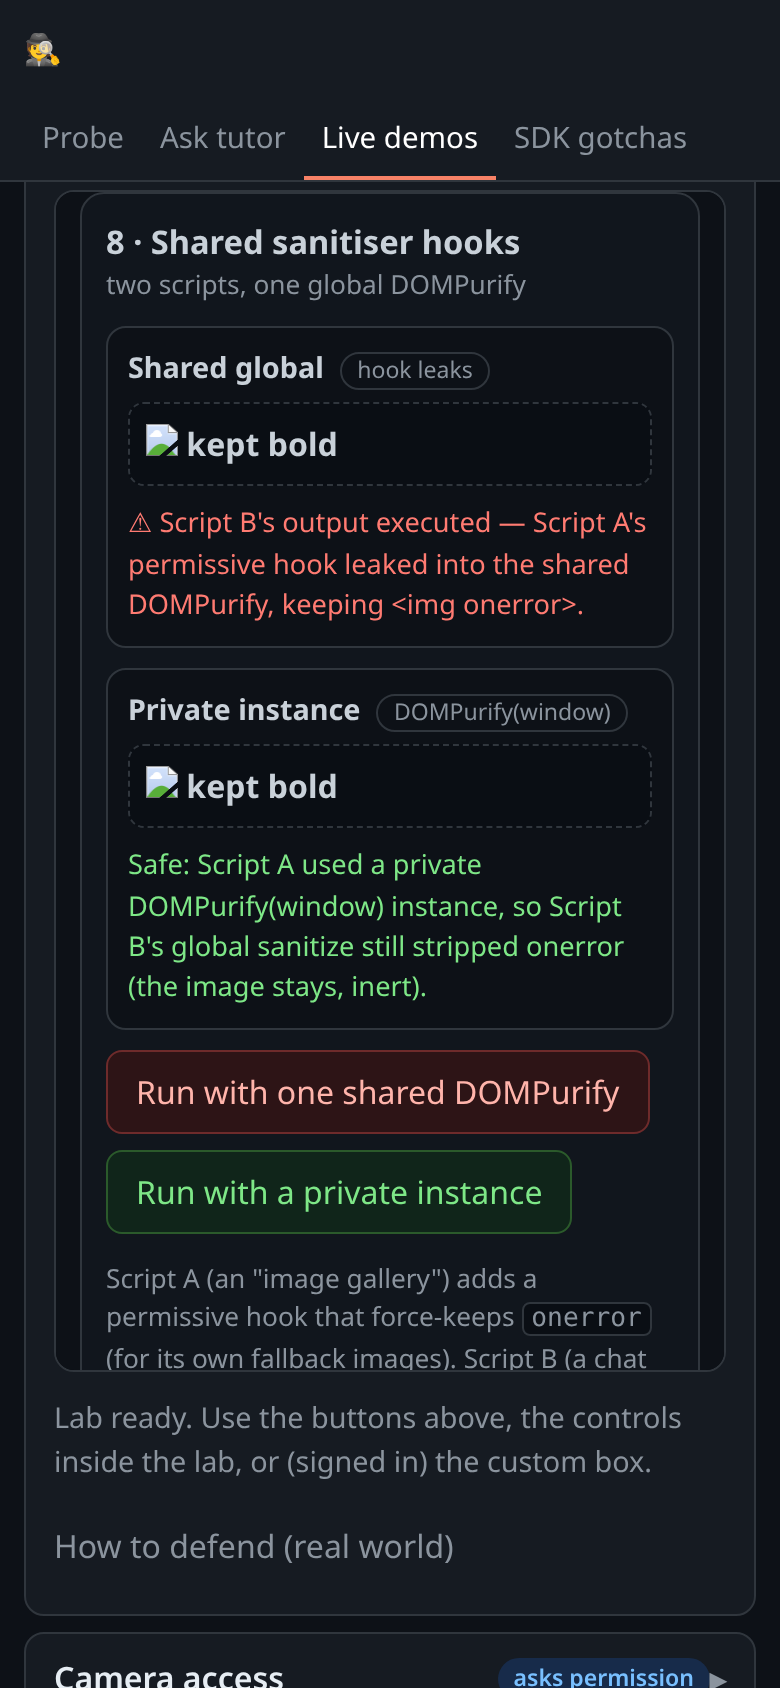
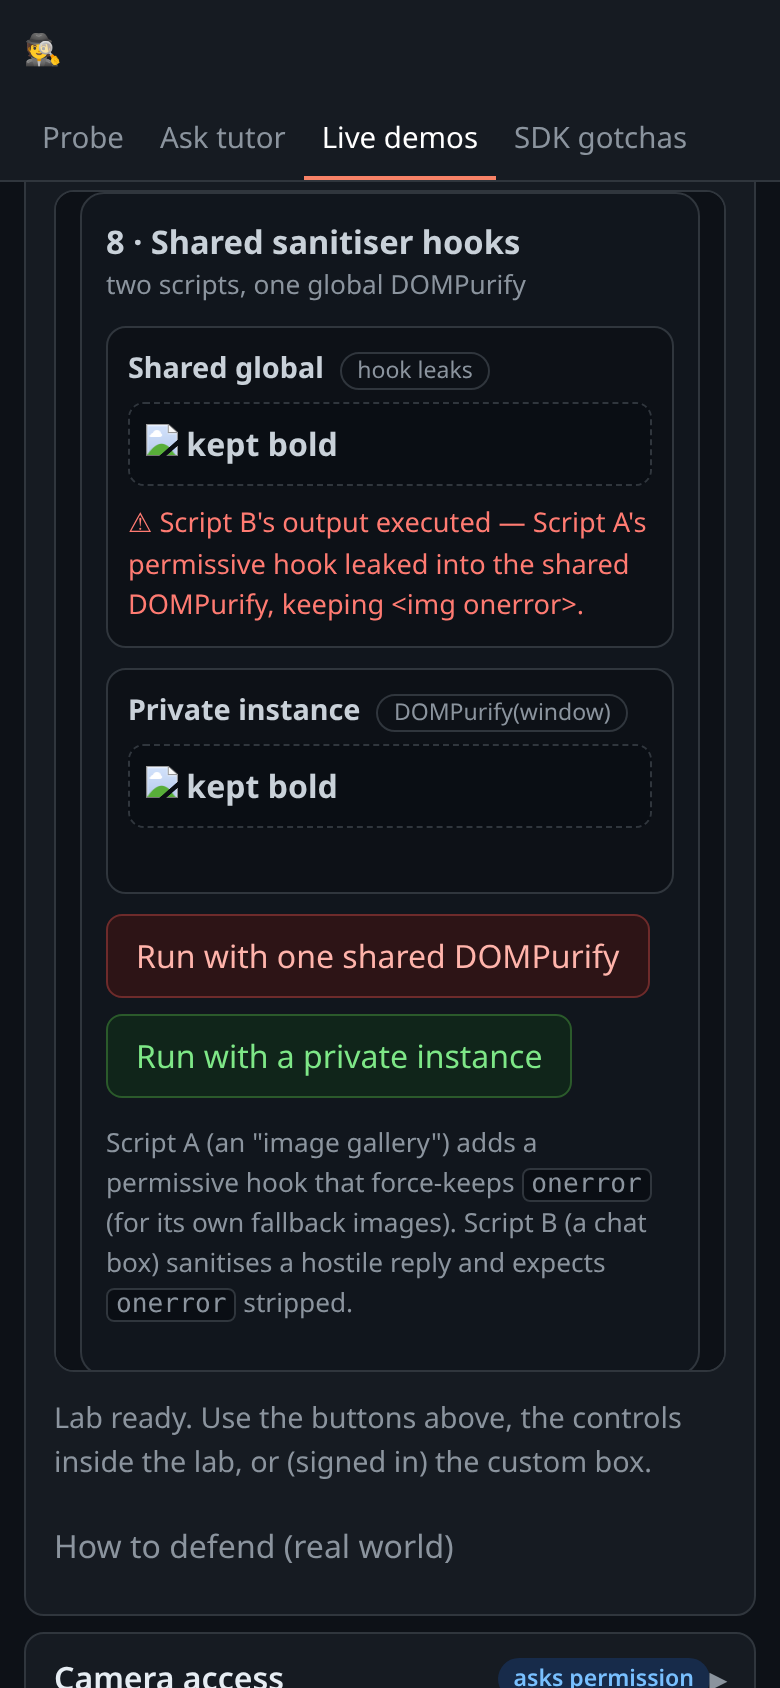
XSS lab hooks lesson: poll for onerror instead of a fixed 60 ms (fires after a CDN round-trip in production)

Changed region(s): [[0.1231, 0.4929, 0.8308, 0.8318]]

diff --git a/public/lab.js b/public/lab.js
@@ -193,6 +193,7 @@
 
   // ---- lesson 8: shared sanitiser hooks leaking between two scripts ----
   var HOOK_HOSTILE = '<img src=x onerror="window.__labFired(\'hooks\')"> <b>kept bold</b>';
+  function whenFired(tag, maxMs, cb) { var t0 = Date.now(); (function poll() { if (fired[tag] || Date.now() - t0 >= maxMs) return cb(!!fired[tag]); setTimeout(poll, 50); })(); }
   function galleryHook(node, data) { if (data.attrName === "onerror") data.forceKeepAttr = true; }
   function runHooks(variant) {
     fired.hooks = false;
@@ -207,14 +208,16 @@
       } finally {
         DOMPurify.removeAllHooks();   // clean up so the rest of the lab is unaffected (A forgetting this IS the bug)
       }
-      setTimeout(function () { note(noteId, fired.hooks ? "⚠ Script B's output executed — Script A's permissive hook leaked into the shared DOMPurify, keeping <img onerror>." : "No script ran.", fired.hooks ? "bad" : "ok"); report({ demo: "hooks", variant: "vuln", executed: !!fired.hooks, blocked: false, defence: null }); }, 60);
+      // onerror fires only after the broken image load fails (a network round-trip on a CDN), so poll rather than guess a delay.
+      whenFired("hooks", 2000, function (ran) { note(noteId, ran ? "⚠ Script B's output executed — Script A's permissive hook leaked into the shared DOMPurify, keeping <img onerror>." : "No script ran.", ran ? "bad" : "ok"); report({ demo: "hooks", variant: "vuln", executed: ran, blocked: false, defence: null }); });
     } else {
       // Fixed: Script A sanitises on its OWN private instance; Script B's global sanitize is untouched.
       var dpA = DOMPurify(window);
       dpA.addHook("uponSanitizeAttribute", galleryHook);            // the SAME permissive hook, on A's private instance
       dpA.sanitize('<img src="/lab/static/none.png">');             // A does its permissive thing, privately
       document.getElementById(sinkId).innerHTML = DOMPurify.sanitize(HOOK_HOSTILE);  // B on the clean global
-      setTimeout(function () { note(noteId, fired.hooks ? "Unexpected: payload ran." : "Safe: Script A used a private DOMPurify(window) instance, so Script B's global sanitize still stripped onerror (the image stays, inert).", fired.hooks ? "bad" : "ok"); report({ demo: "hooks", variant: "fixed", executed: false, blocked: true, defence: "private DOMPurify instance" }); }, 60);
+      // give a (wrongly) kept onerror the same time to fire before declaring it safe
+      setTimeout(function () { note(noteId, fired.hooks ? "Unexpected: payload ran." : "Safe: Script A used a private DOMPurify(window) instance, so Script B's global sanitize still stripped onerror (the image stays, inert).", fired.hooks ? "bad" : "ok"); report({ demo: "hooks", variant: "fixed", executed: false, blocked: true, defence: "private DOMPurify instance" }); }, 1200);
     }
   }
 
